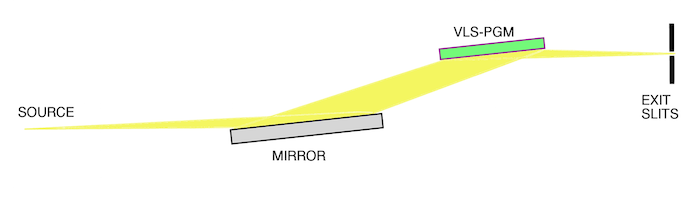
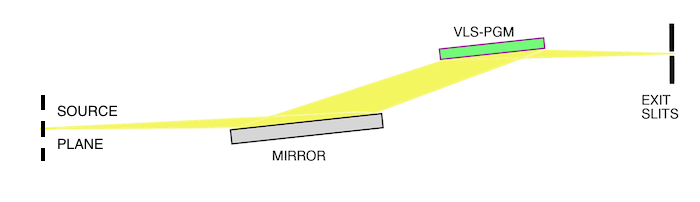
Bug fixing and Issues

Changed region(s): [[0.03, 0.4752, 0.18, 0.802]]

diff --git a/orangecontrib/shadow/widgets/preprocessor/vls_pgm_coefficients_calculator.py b/orangecontrib/shadow/widgets/preprocessor/vls_pgm_coefficients_calculator.py
@@ -111,7 +111,7 @@ class OWVlsPgmCoefficientsCalculator(OWWidget):
 
         box = oasysgui.widgetBox(tab_step_1, "VLS-PGM Layout Parameters", orientation="vertical")
 
-        self.le_r_a = oasysgui.lineEdit(box, self, "r_a", "Distance Source-Grating", labelWidth=260, valueType=float, orientation="horizontal")
+        self.le_r_a = oasysgui.lineEdit(box, self, "r_a", "Distance Source Plane-Grating", labelWidth=260, valueType=float, orientation="horizontal")
         self.le_r_b = oasysgui.lineEdit(box, self, "r_b", "Distance Grating-Exit Slits", labelWidth=260, valueType=float, orientation="horizontal")
         self.le_h = oasysgui.lineEdit(box, self, "h", "Vertical Distance Mirror-Grating", labelWidth=260, valueType=float, orientation="horizontal")
 
@@ -323,8 +323,8 @@ class OWVlsPgmCoefficientsCalculator(OWWidget):
             new_alpha =  numpy.arcsin(new_sin_alpha)
             new_beta  = numpy.arcsin(new_sin_alpha-m*self.k*newwavelength)
 
-            self.raytracing_alpha = round(numpy.degrees(new_alpha), 3)
-            self.raytracing_beta  = round(numpy.degrees(new_beta), 3)
+            self.raytracing_alpha = round(numpy.degrees(new_alpha), 6)
+            self.raytracing_beta  = round(numpy.degrees(new_beta), 6)
             #_new_beta = numpy.arccos(new_c*numpy.cos(new_alpha))
 
             print("####################################################")

diff --git a/setup.py b/setup.py
@@ -8,7 +8,7 @@ except AttributeError:
     from setuptools import find_packages, setup
 
 NAME = 'OASYS1-ShadowOui'
-VERSION = '1.4.11'
+VERSION = '1.4.13'
 ISRELEASED = False
 
 DESCRIPTION = 'Shadow, Ray-tracing simulation software'
